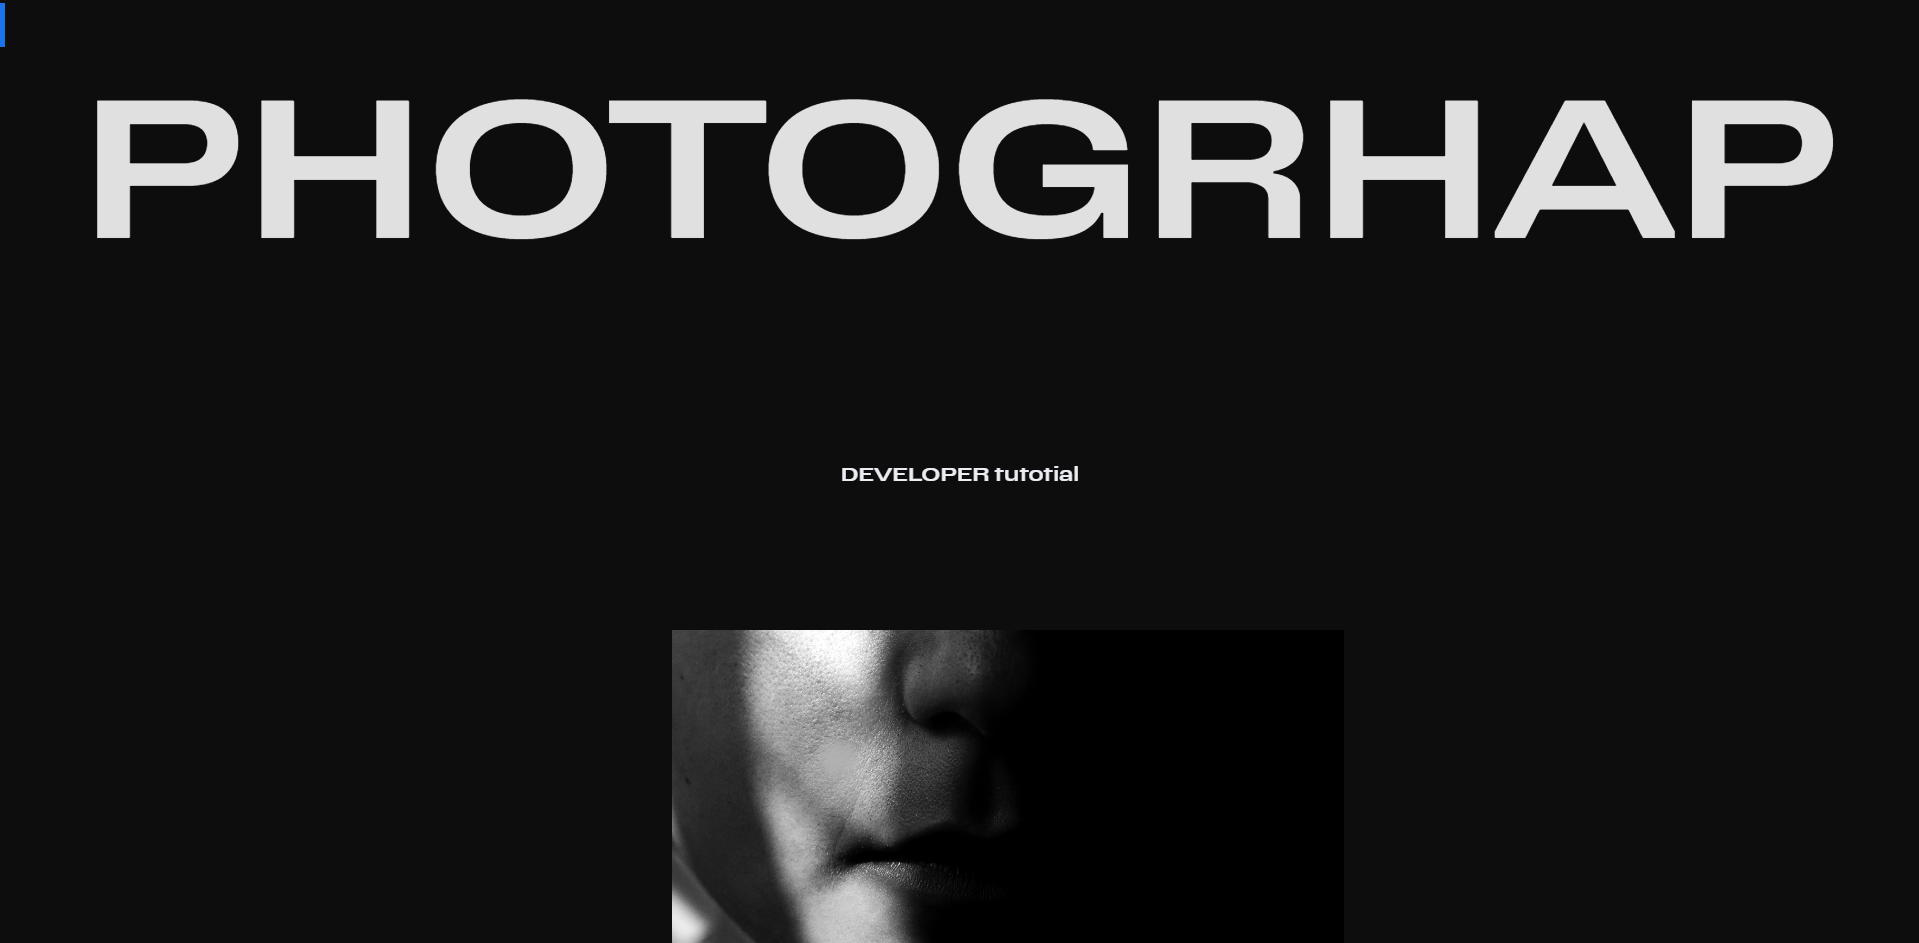
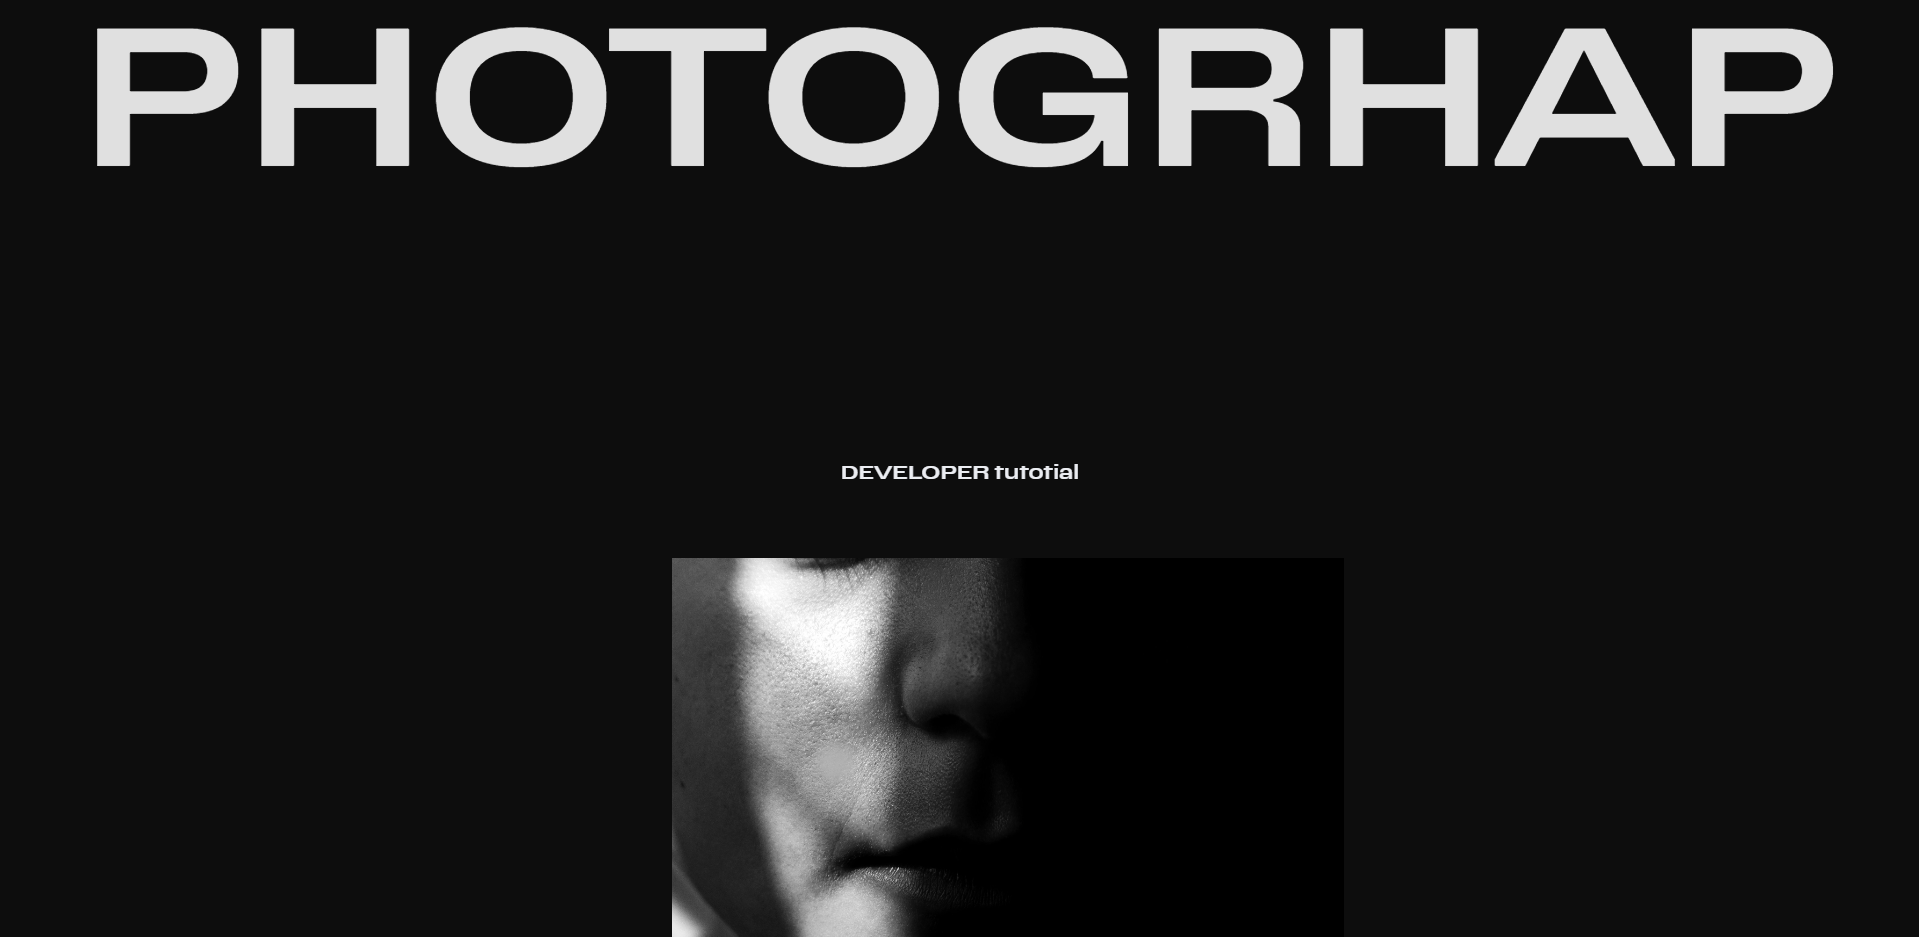
ultimo comit

diff --git a/src/components/main/card/Card.jsx b/src/components/main/card/Card.jsx
@@ -9,6 +9,7 @@ import img03 from "./image/models.png"
 import img04 from "./image/cadastro.png"
 import img05 from "./image/woodpecker.png"
 import img06 from "./image/nitendo.png"
+import { GoArrowDownRight } from "react-icons/go";
 
 gsap.registerPlugin(ScrollTrigger)
 export default function Card() {
@@ -25,7 +26,6 @@ export default function Card() {
                 let endScalePoint = `top+=${nextSections.offsetTop - section.offsetTop} top`;
 
                 gsap.to(section, {
-                    opacity: 0,
                     scrollTrigger: {
                         trigger: section,
                         start: "top top",
@@ -37,7 +37,9 @@ export default function Card() {
                 });
                 imgs.forEach((img) => {
                     gsap.fromTo(img, { scale: 1 }, {
-                        scale: 0.5,
+                        delay: 2,
+                        scale: 0.95,
+                        duration: 1,
                         ease: "none",
                         scrollTrigger: {
                             trigger: section,
@@ -48,13 +50,21 @@ export default function Card() {
                     })
                 })
             });
+
         })
         return () => {
             ctx.revert()
         }
     }, [])
+
+
     return (
         <div className="container-card">
+            <section className="card pinned">
+                <div className="img">
+                    <img src={img02} alt="" />
+                </div>
+            </section>
 
             <section className="card pinned">
                 <div className="img">
@@ -62,11 +72,6 @@ export default function Card() {
                 </div>
             </section>
 
-            <section className="card pinned">
-                <div className="img">
-                    <img src={img02} alt="" />
-                </div>
-            </section>
             <section className="card scroll">
                 <div className="img">
                     <img src={img03} alt="" />

diff --git a/src/components/footer/footer.css b/src/components/footer/footer.css
@@ -11,18 +11,16 @@
 footer {
     width: 100%;
     height: 120vh;
-    background-color: #EF6B41;
+    background-color: #A95F3E;
     display: flex;
     flex-direction: column;
+    position: relative;
+    z-index: -1;
 }
 
 .footer-text {
     width: 100%;
     height: 100%;
-    display: flex;
-    flex-direction: column;
-    align-items: center;
-    justify-content: center;
 }
 
 .footer-text h1 {
@@ -31,14 +29,25 @@ footer {
     line-height: 25vw;
     font-family: "dff6ae7a2978d569-s";
     text-transform: uppercase;
-    color: #000000;
+    color: #FFF;
+    text-wrap: nowrap;
+}
+.content-footer {
+    position: absolute;
+    top: 50%;
+    left: 50%;
+    transform: translate(-50%, -50%);
+    display: flex;
+    flex-direction: column;
+    justify-content: center;
+    align-items: center;
 }
 
 .footer-text button {
     padding: 1.4rem 4rem;
     border-radius: 50px;
     border: none;
-    margin-top: 5vw;
+
     background-color: #000000;
     position: relative;
     display: flex;
@@ -82,11 +91,11 @@ footer {
     display: flex;
     justify-content: space-between;
     padding: 2vw 4vw;
-    background-color: #EF6B41;
+    background-color: #A95F3E;
     color: #000000;
     font-weight: 900;
     width: 100%;
-
+    position: relative;
 }
 
 .links ul {
@@ -96,7 +105,7 @@ footer {
 }
 
 .links ul li a {
-    color: #000000;
+    color: #FFF;
     text-decoration: none;
     display: flex;
     gap: 10px;

diff --git a/src/components/header/Header.jsx b/src/components/header/Header.jsx
@@ -60,17 +60,31 @@ export default function Header() {
         }
     }, [])
 
+    const oppenMenu = () => {
+        const timelineMenu = gsap.timeline()
+        timelineMenu.to("menu",
+            { clipPath: "polygon(0 100%, 100% 100%, 100% 0, 0 0)", delay: 0, duration: 1, ease: "power4.inOut" },
+        );
+    }
+    const closednMenu = () => {
+        const timelineMenu = gsap.timeline()
+        timelineMenu.to("menu",
+            { clipPath: "polygon(0% 0%, 100% 0%, 100% 0%, 0% 0%)", delay: 0, duration: 1, ease: "power4.inOut" },
+        );
+    }
+
     return (
         <header>
             <nav>
-                <div></div>
                 <ul>
-                    <li>Menu</li>
+                    <li onClick={oppenMenu}>Menu</li>
                 </ul>
+                <menu>
+                    <ul>
+                        <li onClick={closednMenu}>Closed</li>
+                    </ul>
+                </menu>
             </nav>
-            <menu>
-
-            </menu>
         </header>
     )
 }

diff --git a/src/components/header/header.css b/src/components/header/header.css
@@ -7,17 +7,46 @@ header {
     font-family: "mulish";
     width: 100%;
     height: 15vh;
-    padding: 0vw 3vw;
+    color: #000000;
 }
 header nav {
     width: 100%;   
-    height: 15vh;
     display: flex;
     align-items: center;
+    flex-direction: column;
     justify-content: space-between;
     font-weight: 100;
 }
 
 header nav ul {
+    width: 100%;
     list-style: none;
+    position: absolute;
+    z-index: 1;
+    height: 10vh;
+    display: flex;
+    align-items: center;
+    justify-content: end;
+    padding: 0 3vw;
+    color: #FFF;
+    text-transform: uppercase;
+    font-weight: 700;
+    cursor: pointer;
+}
+
+header menu {
+    width: 100%;
+    height: 100vh;
+    position: fixed;
+    left: 0;
+    top: 0;
+    background-color: #EF6B41;
+    clip-path: polygon(0% 0%, 100% 0%, 100% 0%, 0% 0%) ;
+    z-index: 1000 !important;
+}
+header menu ul li{
+    color: #000000;
+    text-transform: uppercase;
+    font-weight: 700;
+    cursor: pointer;
 }

diff --git a/src/app/App.jsx b/src/app/App.jsx
@@ -1,6 +1,5 @@
 import { BrowserRouter, Route, Routes } from "react-router-dom"
 import Home from "../home/Home"
-import Cursor from "../components/cursor/Cursor"
 import "./App.css"
 import gsap from "gsap"
 import ScrollTrigger from "gsap-trial/ScrollTrigger"
@@ -15,15 +14,14 @@ export default function App() {
             content: "#content",
             smooth: 1,
             effects: true,
-            // normalizeScroll: true,
-            // ignoreMobileResize: true,
+            normalizeScroll: true,
+            ignoreMobileResize: true,
         })
-    },[])
+    }, [])
     return (
         <BrowserRouter>
             <div id="container" ref={containerRef}>
                 <div id="content">
-                    {/* <Cursor /> */}
                     <Routes>
                         <Route path="/" element={<Home />} />
                     </Routes>

diff --git a/src/components/footer/Footer.jsx b/src/components/footer/Footer.jsx
@@ -22,13 +22,17 @@ export default function Footer() {
     }, [])
     return (
         <footer>
+
             <div className="footer-text">
-                <h1>Interested?</h1>
-                <button>
-                    <span></span>
-                    <a href="mailto:">DROP ME AL EMAIL</a>
-                </button>
+                <div className="content-footer">
+                    <h1>Interested?</h1>
+                    <button>
+                        <span></span>
+                        <a href="mailto:">DROP ME AL EMAIL</a>
+                    </button>
+                </div>
             </div>
+
             <div className="links">
                 <p>©2024-AFONSO</p>
                 <ul>

diff --git a/src/components/main/card/card.css b/src/components/main/card/card.css
@@ -62,9 +62,8 @@
 .img {
     max-width: 100%;
     width: 1500px;
-    height: 670px;
+    height: 800px;
     overflow: hidden;
-    object-fit: cover;
     display: flex;
     align-items: center;
     justify-content: center;
@@ -73,10 +72,21 @@
 
 img {
     width: 100%;
-    /* height: 100%; */
-    object-fit: cover;
 }
 
+.pointer {
+    width: 70px;
+    height: 70px;
+    background-color: #FFFCF1;
+    border-radius: 50%;
+    display: flex;
+    align-items: center;
+    justify-content: center;
+    overflow: hidden;
+    position: fixed;
+    pointer-events: none;
+    z-index: 1000 !important;
+}
 
 @media screen and (max-width: 1400px) {
     .img {

diff --git a/src/components/main/wrapper/Wrapper.jsx b/src/components/main/wrapper/Wrapper.jsx
@@ -20,10 +20,10 @@ export default function Wrapper() {
     return (
         <section className="container-wrapper">
             <div className="content-wrapper">
-                {/* <div className="wrapper-title">
-                    <p>FRONT END DEV</p>
-                    <span><GoArrowDownRight size={20} />AFONSO SILVA <br />PORTFOLIO</span>
-                </div> */}
+                <div className="wrapper-title">
+                    {/* <p>DEVELOPPER</p> */}
+                    {/* <span><GoArrowDownRight size={20} />AFONSO SILVA <br />PORTFOLIO</span> */}
+                </div>
             </div>
         </section>
     )

diff --git a/src/components/main/wrapper/wrapper.css b/src/components/main/wrapper/wrapper.css
@@ -16,18 +16,25 @@
 .container-wrapper {
     width: 100%;
     height: 100vh;
+    position: relative;
 }
 .content-wrapper {
     position: relative;
+    top: -15%;
     width: 100%;
     height: 100%;
 }
 
 .wrapper-title {
-    
+    width: 100%;
+    height: 100%;
 }
 .wrapper-title p {
-   
+   font-family: "dff6ae7a2978d569-s";
+   font-size: 25vw;
+   text-wrap: nowrap;
+   position: absolute;
+   bottom: 0;
 }
 .wrapper-title span {
   

diff --git a/src/components/main/about/About.jsx b/src/components/main/about/About.jsx
@@ -23,7 +23,6 @@ export default function About() {
                     trigger: ".text-about",
                     start: "top 50%",
                     end: "bottom bottom",
-                    markers: true
                 }
             })
         })

diff --git a/src/components/main/Main.jsx b/src/components/main/Main.jsx
@@ -8,7 +8,7 @@ export default function Main(){
             <Wrapper/>
             <About/>
             <Skils/>
-            <Card/>
+            {/* <Card/> */}
         </main>
     )
 }

diff --git a/src/app/App.css b/src/app/App.css
@@ -11,4 +11,9 @@
 body::-webkit-scrollbar {
     display: none;
 }
+main {
+    position: relative;
+    z-index: -1;
+}
+
     
